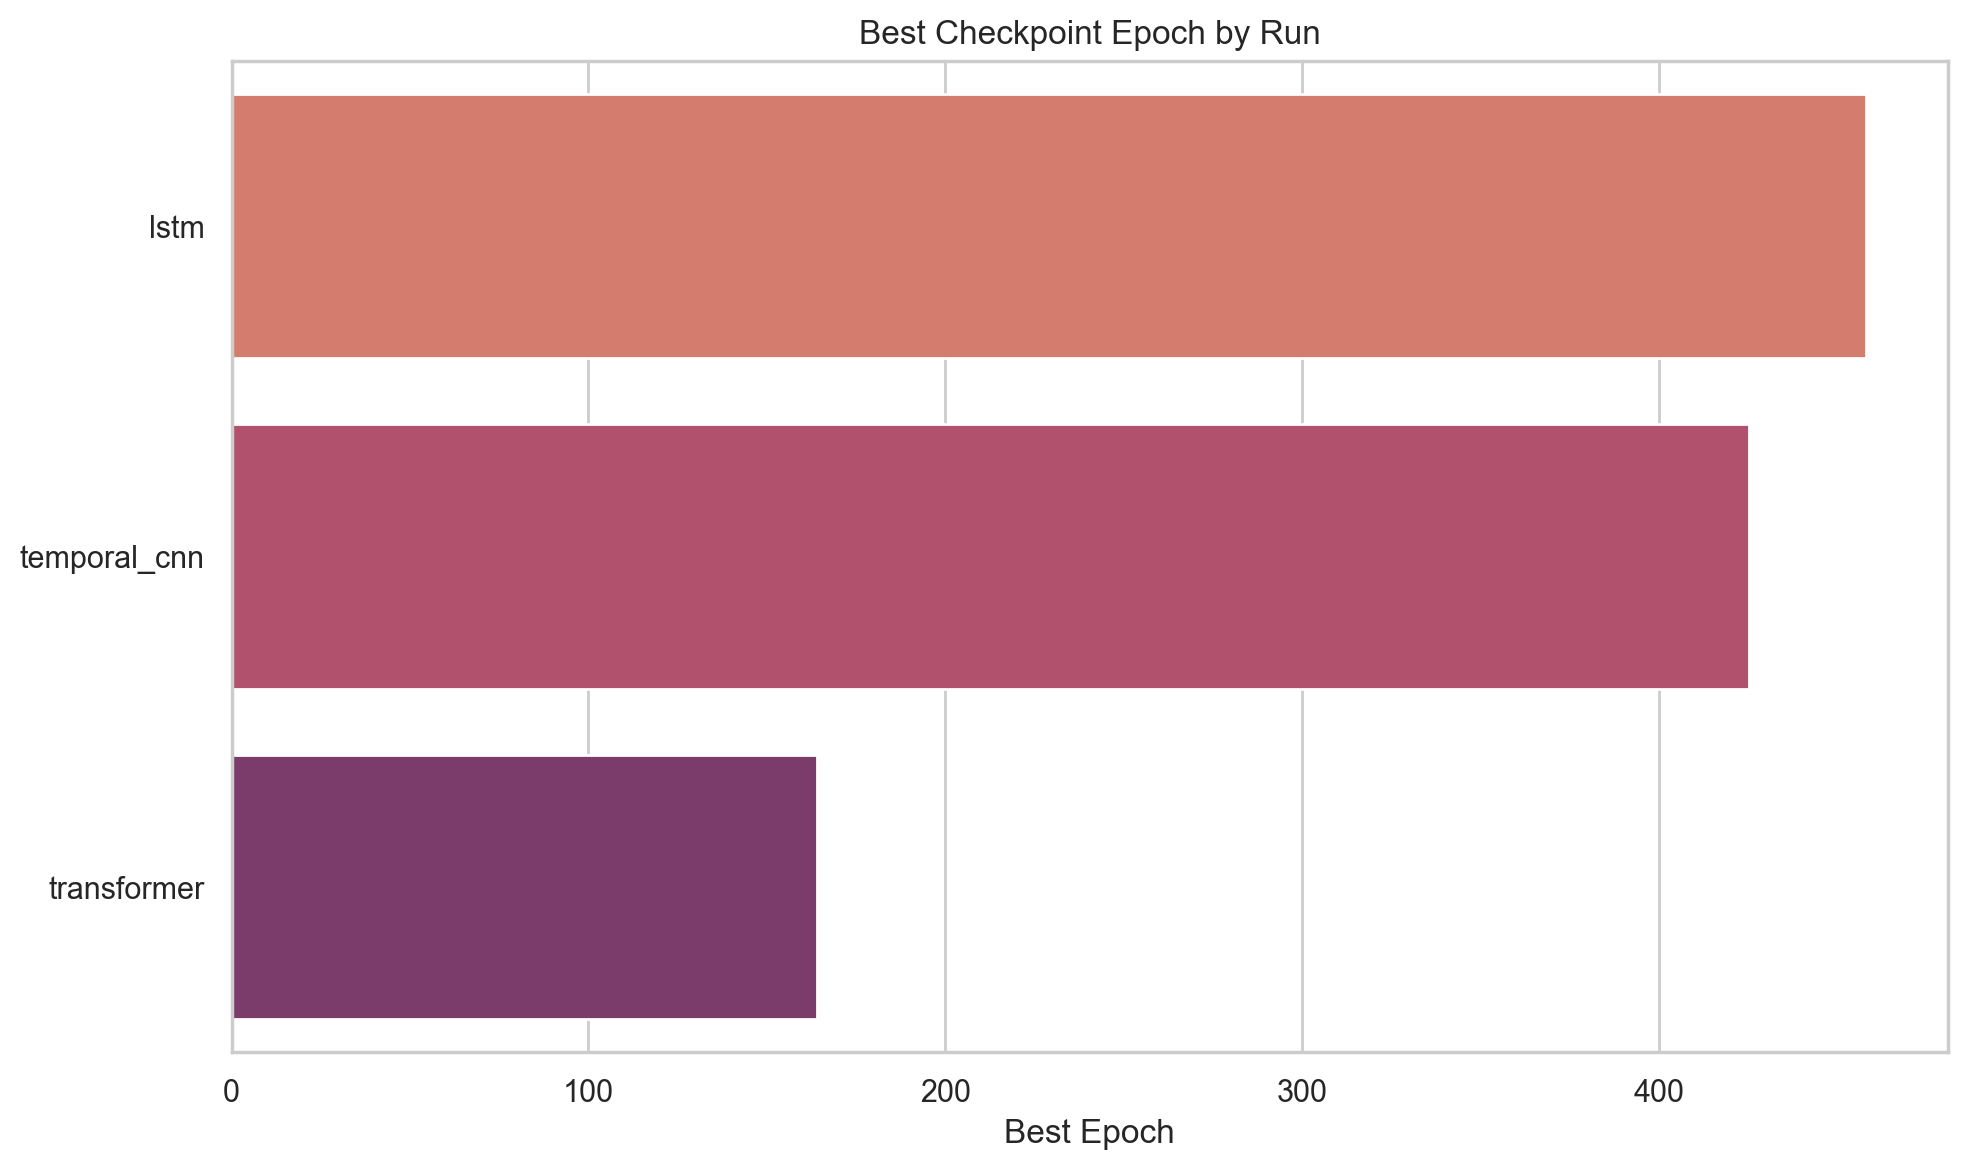
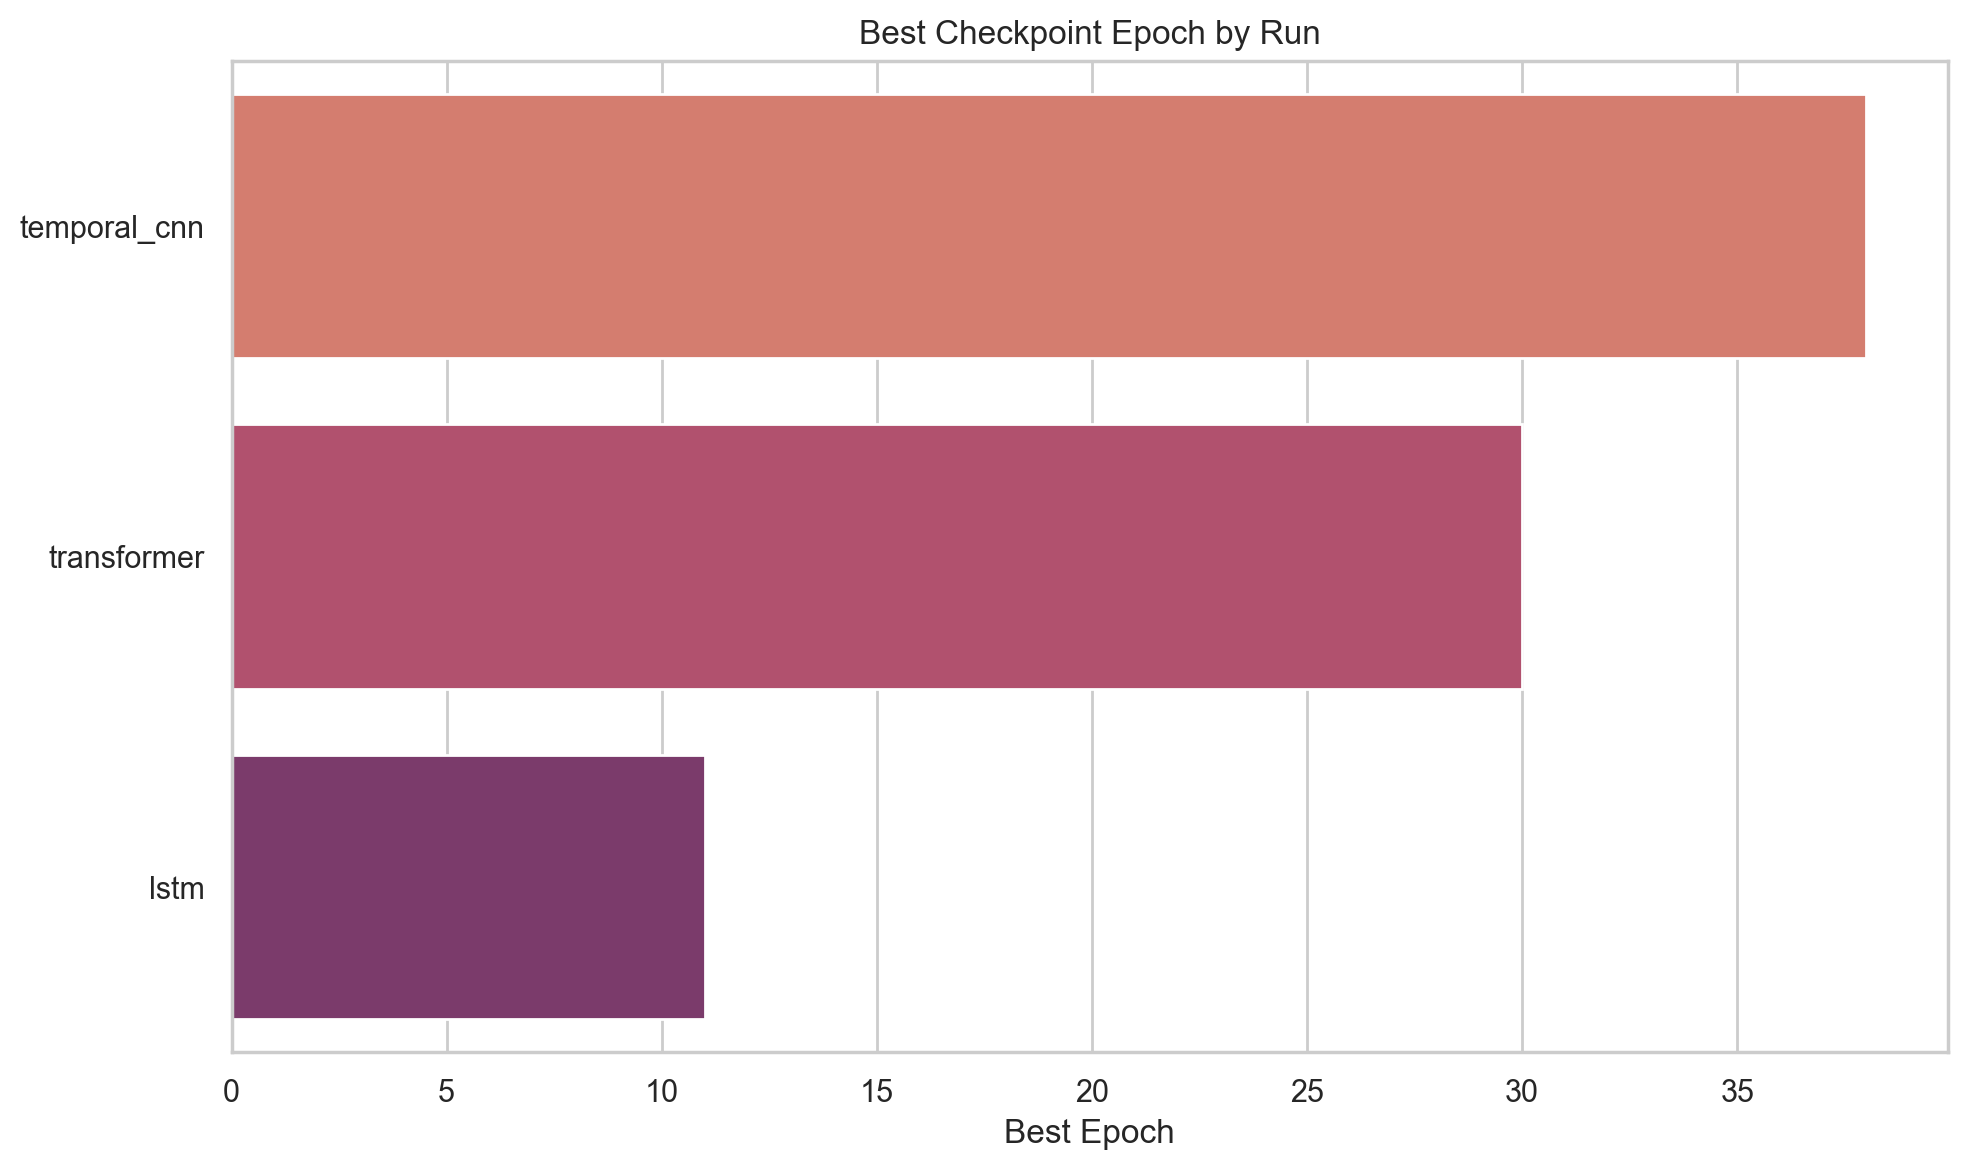
Different loss

diff --git a/main.py b/main.py
@@ -47,6 +47,30 @@ def _log_step(message: str) -> None:
     logger.info("%s", message)
 
 
+def _format_loss_suffix(loss_name: str, focal_gamma: float) -> str:
+    if loss_name == "cross_entropy":
+        return "cross_entropy"
+    if loss_name == "weighted_cross_entropy":
+        return "weighted_cross_entropy"
+    if loss_name == "focal":
+        gamma_str = str(focal_gamma).replace(".", "p")
+        return f"focal_g{gamma_str}"
+    raise ValueError(f"Unknown loss name: {loss_name}")
+
+
+def resolve_output_dir(
+    output_dir_arg: str | None,
+    *,
+    model_name: str,
+    loss_name: str,
+    focal_gamma: float,
+) -> Path:
+    if output_dir_arg:
+        return Path(output_dir_arg)
+    loss_suffix = _format_loss_suffix(loss_name, focal_gamma)
+    return Path("outputs") / f"{model_name}_{loss_suffix}"
+
+
 def resolve_device(device_name: str) -> torch.device:
     if device_name == "auto":
         return torch.device("cuda" if torch.cuda.is_available() else "cpu")
@@ -103,10 +127,16 @@ def build_parser() -> argparse.ArgumentParser:
     parser.add_argument("--batch_size", type=int, default=128)
     parser.add_argument("--lr", type=float, default=1e-4)
     parser.add_argument("--patience", type=int, default=50)
+    parser.add_argument(
+        "--loss",
+        choices=["cross_entropy", "weighted_cross_entropy", "focal"],
+        default="cross_entropy",
+    )
+    parser.add_argument("--focal_gamma", type=float, default=2.0)
     parser.add_argument("--device", choices=["auto", "cpu", "cuda"], default="auto")
     parser.add_argument("--num_workers", type=int, default=4)
     parser.add_argument("--amp", action="store_true", help="Use automatic mixed precision on CUDA.")
-    parser.add_argument("--output_dir", default="outputs")
+    parser.add_argument("--output_dir")
     parser.add_argument("--seed", type=int, default=42)
     return parser
 
@@ -131,7 +161,12 @@ def main(argv: list[str] | None = None) -> None:
     if device.type == "cuda":
         logger.info("Using CUDA device: %s", torch.cuda.get_device_name(device))
 
-    output_dir = Path(args.output_dir)
+    output_dir = resolve_output_dir(
+        args.output_dir,
+        model_name=args.model,
+        loss_name=args.loss,
+        focal_gamma=args.focal_gamma,
+    )
     output_dir.mkdir(parents=True, exist_ok=True)
 
     logger.info("Loading metadata from %s", args.labels_json)
@@ -156,11 +191,16 @@ def main(argv: list[str] | None = None) -> None:
                 if args.model == "paper_cnn"
                 else None
             ),
-            "normalization": "per-sample min-max to [0,1] after split",
+            "normalization": (
+                "per-sample z-score after per-sample PCA/SVD"
+                if args.model == "paper_cnn"
+                else "per-feature z-score using train-set statistics"
+            ),
             "smote_position": None,
             "dataset_scope": "original labeled CMOSE train/test samples",
             "train_eval_split_usage": "original CMOSE train/test split",
             "model": args.model,
+            "loss": args.loss,
         },
     }
     save_json(selection_summary, output_dir / "selection_summary.json")
@@ -302,6 +342,8 @@ def main(argv: list[str] | None = None) -> None:
         batch_size=args.batch_size,
         lr=args.lr,
         patience=args.patience,
+        loss_name=args.loss,
+        focal_gamma=args.focal_gamma,
         checkpoint_path=output_dir / "best_model.pth",
         device=device,
         num_workers=args.num_workers,
@@ -337,6 +379,8 @@ def main(argv: list[str] | None = None) -> None:
                 "batch_size": args.batch_size,
                 "lr": args.lr,
                 "patience": args.patience,
+                "loss": args.loss,
+                "focal_gamma": args.focal_gamma if args.loss == "focal" else None,
                 "device": device.type,
                 "num_workers": args.num_workers,
                 "amp": args.amp,

diff --git a/src/paper_repro_train.py b/src/paper_repro_train.py
@@ -12,8 +12,67 @@ from typing import Any
 import numpy as np
 import torch
 import torch.nn as nn
+import torch.nn.functional as F
 from sklearn.metrics import accuracy_score, classification_report, confusion_matrix, f1_score
 from torch.utils.data import DataLoader, TensorDataset
+
+
+class FocalLoss(nn.Module):
+    """Multi-class focal loss with optional class weights."""
+
+    def __init__(
+        self,
+        *,
+        gamma: float = 2.0,
+        weight: torch.Tensor | None = None,
+    ) -> None:
+        super().__init__()
+        self.gamma = float(gamma)
+        if weight is None:
+            self.register_buffer("weight", None, persistent=False)
+        else:
+            self.register_buffer("weight", weight.float(), persistent=False)
+
+    def forward(self, logits: torch.Tensor, targets: torch.Tensor) -> torch.Tensor:
+        ce = F.cross_entropy(logits, targets, weight=self.weight, reduction="none")
+        pt = torch.exp(-ce)
+        focal = ((1.0 - pt) ** self.gamma) * ce
+        return focal.mean()
+
+
+def compute_class_weights(y: np.ndarray) -> np.ndarray:
+    """Compute inverse-frequency class weights normalized to mean 1."""
+    class_counts = np.bincount(y.astype(np.int64))
+    if class_counts.size == 0:
+        raise ValueError("Cannot compute class weights for an empty target array")
+
+    weights = np.zeros_like(class_counts, dtype=np.float32)
+    nonzero = class_counts > 0
+    weights[nonzero] = 1.0 / class_counts[nonzero].astype(np.float32)
+    if np.any(nonzero):
+        weights[nonzero] *= float(nonzero.sum()) / float(weights[nonzero].sum())
+    return weights
+
+
+def build_loss(
+    y_train: np.ndarray,
+    *,
+    loss_name: str,
+    focal_gamma: float = 2.0,
+    device: torch.device,
+) -> tuple[nn.Module, list[float] | None]:
+    """Create the requested classification loss and optional class-weight summary."""
+    if loss_name == "cross_entropy":
+        return nn.CrossEntropyLoss(), None
+
+    class_weights = compute_class_weights(y_train)
+    weight_tensor = torch.tensor(class_weights, dtype=torch.float32, device=device)
+
+    if loss_name == "weighted_cross_entropy":
+        return nn.CrossEntropyLoss(weight=weight_tensor), class_weights.tolist()
+    if loss_name == "focal":
+        return FocalLoss(gamma=focal_gamma, weight=weight_tensor), class_weights.tolist()
+    raise ValueError(f"Unknown loss_name: {loss_name}")
 
 
 def make_dataloader(
@@ -51,6 +110,8 @@ def train_model(
     batch_size: int,
     lr: float,
     patience: int,
+    loss_name: str,
+    focal_gamma: float,
     checkpoint_path: str | Path,
     device: torch.device | None = None,
     min_delta: float = 0.0,
@@ -67,7 +128,12 @@ def train_model(
     use_amp = bool(use_amp and device.type == "cuda")
     pin_memory = device.type == "cuda"
     model.to(device)
-    criterion = nn.CrossEntropyLoss()
+    criterion, class_weights = build_loss(
+        y_train,
+        loss_name=loss_name,
+        focal_gamma=focal_gamma,
+        device=device,
+    )
     optimizer = torch.optim.Adam(model.parameters(), lr=lr)
     scaler = torch.amp.GradScaler("cuda", enabled=use_amp)
 
@@ -102,6 +168,9 @@ def train_model(
         "best_epoch": 0,
         "patience": patience,
         "stopped_early": False,
+        "loss_name": loss_name,
+        "focal_gamma": focal_gamma if loss_name == "focal" else None,
+        "class_weights": class_weights,
     }
 
     if progress_callback is not None:
@@ -109,7 +178,7 @@ def train_model(
             "Training setup complete: "
             f"device={device.type}, train_samples={len(X_train)}, eval_samples={len(X_eval)}, "
             f"epochs={epochs}, batch_size={batch_size}, lr={lr}, patience={patience}, "
-            f"num_workers={num_workers}, amp={use_amp}"
+            f"loss={loss_name}, focal_gamma={focal_gamma}, num_workers={num_workers}, amp={use_amp}"
         )
 
     for epoch in range(1, epochs + 1):

diff --git a/tests/test_paper_repro_pipeline.py b/tests/test_paper_repro_pipeline.py
@@ -8,6 +8,7 @@ from pathlib import Path
 import numpy as np
 import pandas as pd
 
+from main import resolve_output_dir
 from src.paper_repro_data import (
     load_cmose_metadata,
     resample_frames,
@@ -19,6 +20,7 @@ from src.paper_repro_preprocess import (
     fit_feature_normalizer,
     normalize_dataset_per_feature,
 )
+from src.paper_repro_train import build_loss, compute_class_weights
 
 
 def _make_openface_csv(path: Path, *, rows: int = 20) -> None:
@@ -144,3 +146,54 @@ def test_model_factory_output_shapes() -> None:
     )
     assert transformer_spec.input_kind == "sequence"
     assert transformer_out.shape == (2, 4)
+
+
+def test_loss_factory_builds_weighted_and_focal_losses() -> None:
+    import torch
+
+    y_train = np.array([0, 0, 1, 2, 2, 2, 3], dtype=np.int64)
+    weights = compute_class_weights(y_train)
+
+    assert weights.shape == (4,)
+    assert np.isclose(weights.mean(), 1.0)
+    assert weights[1] > weights[2]
+
+    weighted_ce, ce_weights = build_loss(
+        y_train,
+        loss_name="weighted_cross_entropy",
+        focal_gamma=2.0,
+        device=torch.device("cpu"),
+    )
+    assert isinstance(weighted_ce, torch.nn.CrossEntropyLoss)
+    assert ce_weights is not None
+    np.testing.assert_allclose(np.array(ce_weights), weights)
+
+    focal_loss, focal_weights = build_loss(
+        y_train,
+        loss_name="focal",
+        focal_gamma=2.0,
+        device=torch.device("cpu"),
+    )
+    assert focal_loss.__class__.__name__ == "FocalLoss"
+    assert focal_weights is not None
+
+
+def test_resolve_output_dir_uses_loss_specific_default_paths() -> None:
+    assert resolve_output_dir(
+        None,
+        model_name="temporal_cnn",
+        loss_name="cross_entropy",
+        focal_gamma=2.0,
+    ) == Path("outputs/temporal_cnn_cross_entropy")
+    assert resolve_output_dir(
+        None,
+        model_name="temporal_cnn",
+        loss_name="weighted_cross_entropy",
+        focal_gamma=2.0,
+    ) == Path("outputs/temporal_cnn_weighted_cross_entropy")
+    assert resolve_output_dir(
+        None,
+        model_name="transformer",
+        loss_name="focal",
+        focal_gamma=1.5,
+    ) == Path("outputs/transformer_focal_g1p5")

diff --git a/outputs/visualizations/temporal_cnn/report.md b/outputs/visualizations/temporal_cnn/report.md
@@ -2,22 +2,22 @@
 
 - Run folder: `temporal_cnn`
 - Metrics file: `outputs\temporal_cnn\metrics.json`
-- Accuracy: 0.7133
-- Macro F1: 0.3903
-- Weighted F1: 0.6513
-- Best epoch: 425
+- Accuracy: 0.7682
+- Macro F1: 0.5647
+- Weighted F1: 0.7449
+- Best epoch: 38
 
 ## Classification Report
 
 ```text
               precision    recall  f1-score   support
 
-           0       0.38      0.29      0.33        35
-           1       0.56      0.24      0.34       221
-           2       0.73      0.95      0.83       847
-           3       0.80      0.03      0.07       118
+           0       0.57      0.37      0.45        35
+           1       0.65      0.47      0.54       221
+           2       0.79      0.93      0.86       847
+           3       0.77      0.28      0.41       118
 
-    accuracy                           0.71      1221
-   macro avg       0.62      0.38      0.39      1221
-weighted avg       0.70      0.71      0.65      1221
+    accuracy                           0.77      1221
+   macro avg       0.69      0.51      0.56      1221
+weighted avg       0.76      0.77      0.74      1221
 ```

diff --git a/outputs/visualizations/transformer/report.md b/outputs/visualizations/transformer/report.md
@@ -2,22 +2,22 @@
 
 - Run folder: `transformer`
 - Metrics file: `outputs\transformer\metrics.json`
-- Accuracy: 0.7035
-- Macro F1: 0.3194
-- Weighted F1: 0.6148
-- Best epoch: 164
+- Accuracy: 0.7445
+- Macro F1: 0.5441
+- Weighted F1: 0.7224
+- Best epoch: 30
 
 ## Classification Report
 
 ```text
               precision    recall  f1-score   support
 
-           0       0.50      0.17      0.26        35
-           1       0.53      0.12      0.20       221
-           2       0.71      0.98      0.82       847
-           3       0.00      0.00      0.00       118
+           0       0.60      0.34      0.44        35
+           1       0.58      0.41      0.48       221
+           2       0.78      0.91      0.84       847
+           3       0.64      0.31      0.42       118
 
-    accuracy                           0.70      1221
-   macro avg       0.44      0.32      0.32      1221
-weighted avg       0.60      0.70      0.61      1221
+    accuracy                           0.74      1221
+   macro avg       0.65      0.49      0.54      1221
+weighted avg       0.72      0.74      0.72      1221
 ```

diff --git a/outputs/visualizations/lstm/report.md b/outputs/visualizations/lstm/report.md
@@ -2,10 +2,10 @@
 
 - Run folder: `lstm`
 - Metrics file: `outputs\lstm\metrics.json`
-- Accuracy: 0.7117
-- Macro F1: 0.3604
-- Weighted F1: 0.6367
-- Best epoch: 458
+- Accuracy: 0.6994
+- Macro F1: 0.4357
+- Weighted F1: 0.6693
+- Best epoch: 11
 
 ## Classification Report
 
@@ -13,11 +13,11 @@
               precision    recall  f1-score   support
 
            0       0.54      0.20      0.29        35
-           1       0.56      0.18      0.27       221
-           2       0.72      0.97      0.83       847
-           3       0.75      0.03      0.05       118
+           1       0.49      0.38      0.43       221
+           2       0.75      0.88      0.81       847
+           3       0.37      0.14      0.21       118
 
-    accuracy                           0.71      1221
-   macro avg       0.64      0.34      0.36      1221
-weighted avg       0.69      0.71      0.64      1221
+    accuracy                           0.70      1221
+   macro avg       0.54      0.40      0.44      1221
+weighted avg       0.66      0.70      0.67      1221
 ```
